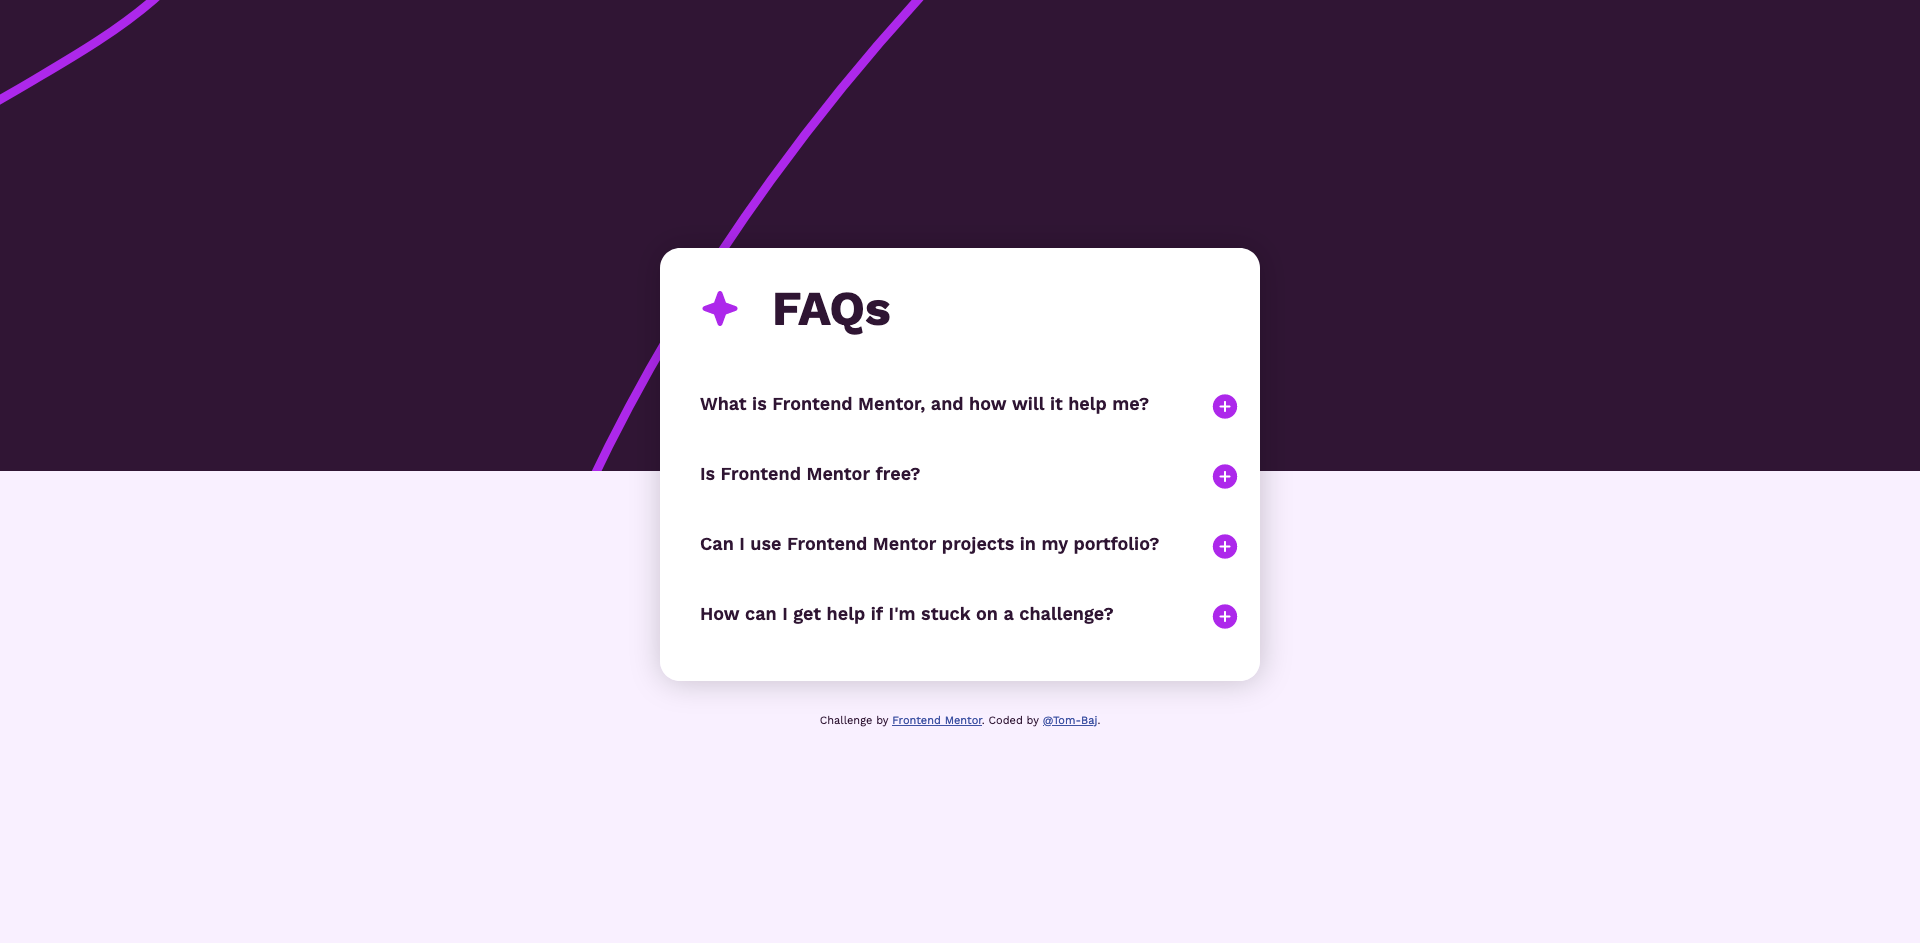
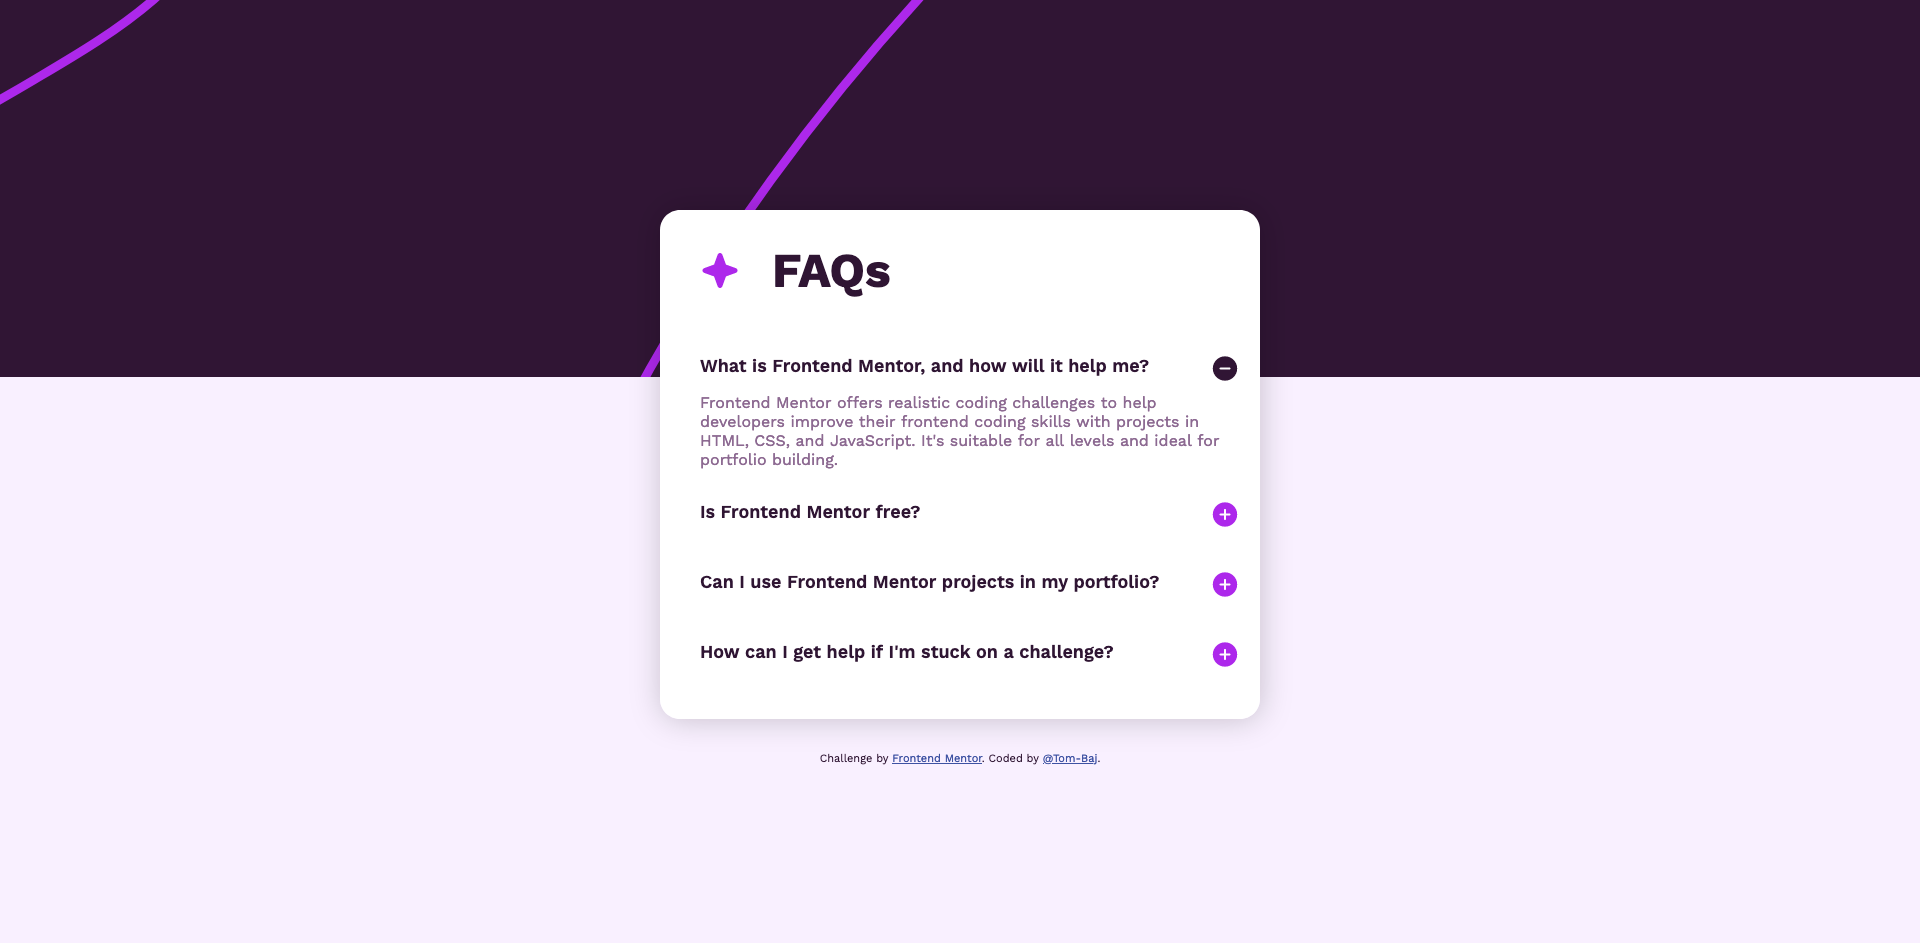
final commit

Changed region(s): [[0.0, 0.2153, 1.0, 0.7688], [0.4375, 0.7996, 0.5625, 0.8303]]

diff --git a/style.css b/style.css
@@ -13,7 +13,7 @@
 }
 
 body {
-  background: linear-gradient(to bottom, transparent 50%, var(--light-pink) 50%),
+  background: linear-gradient(to bottom, transparent 40%, var(--light-pink) 40%),
     url("/assets/images/background-pattern-desktop.svg") center top / 100%
       no-repeat;
   background-size: cover;
